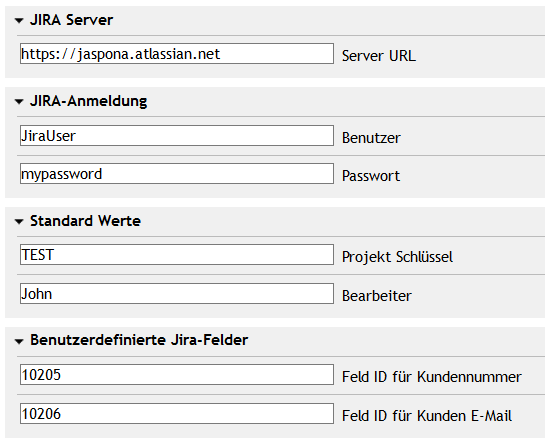
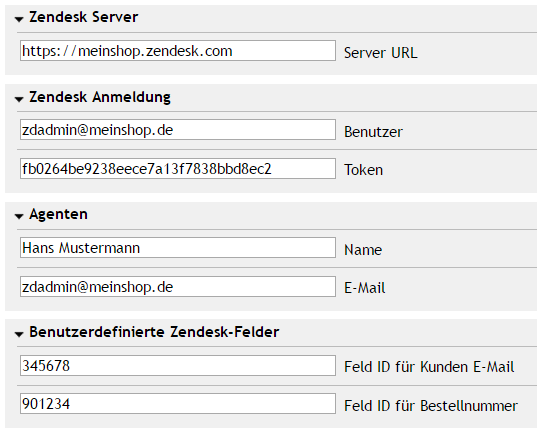
Screenshots updated

diff --git a/README.md b/README.md
@@ -28,7 +28,7 @@ The tickets created by the module _jxZendeskConnect_ have to have attributes whi
 ![Full Log Report](https://github.com/job963/jxZendeskConnect/raw/master/docs/img/user-main-de.png)
 
 #### Issues of a User ####
-![Full Log Report](https://github.com/job963/jxZendeskConnect/raw/master/docs/img/user-jiraissues-de.png)
+![Full Log Report](https://github.com/job963/jxZendeskConnect/raw/master/docs/img/user-zendesktickets-de.png)
 
 #### Issue Info for each Order/User ####
 ![Full Log Report](https://github.com/job963/jxZendeskConnect/raw/master/docs/img/order-main-de.png)
